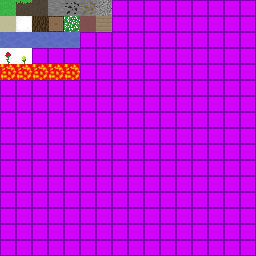
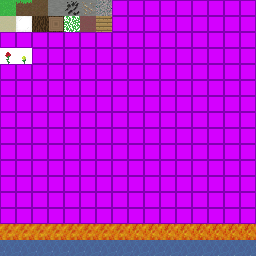
updated textures

diff --git a/src/block/lava.c b/src/block/lava.c
@@ -5,7 +5,7 @@ static bool is_transparent(struct World *world, ivec3s pos) {
 }
 
 static ivec2s get_texture_location(struct World *world, ivec3s pos, enum Direction d) {
-    return (ivec2s) {{ 0, 4 }};
+    return (ivec2s) {{ 0, 14 }};
 }
 
 static bool is_animated() {
@@ -17,11 +17,9 @@ static bool is_liquid() {
 }
 
 static void get_animation_frames(ivec2s out[BLOCK_ATLAS_FRAMES]) {
-    out[0] = (ivec2s) {{ 0, 4 }};
-    out[1] = (ivec2s) {{ 1, 4 }};
-    out[2] = (ivec2s) {{ 2, 4 }};
-    out[3] = (ivec2s) {{ 3, 4 }};
-    out[4] = (ivec2s) {{ 4, 4 }};
+    for (size_t i = 0; i < BLOCK_ATLAS_FRAMES; i++) {
+        out[i] = (ivec2s) {{ 14, i }};
+    }
 }
 
 void lava_init() {

diff --git a/src/block/water.c b/src/block/water.c
@@ -5,7 +5,7 @@ static bool is_transparent(struct World *world, ivec3s pos) {
 }
 
 static ivec2s get_texture_location(struct World *world, ivec3s pos, enum Direction d) {
-    return (ivec2s) {{ 0, 2 }};
+    return (ivec2s) {{ 0, 15 }};
 }
 
 static bool is_animated() {
@@ -17,11 +17,9 @@ static bool is_liquid() {
 }
 
 static void get_animation_frames(ivec2s out[BLOCK_ATLAS_FRAMES]) {
-    out[0] = (ivec2s) {{ 0, 2 }};
-    out[1] = (ivec2s) {{ 1, 2 }};
-    out[2] = (ivec2s) {{ 2, 2 }};
-    out[3] = (ivec2s) {{ 3, 2 }};
-    out[4] = (ivec2s) {{ 4, 2 }};
+    for (size_t i = 0; i < BLOCK_ATLAS_FRAMES; i++) {
+        out[i] = (ivec2s) {{ i, 15 }}; 
+    }
 }
 
 

diff --git a/src/main.c b/src/main.c
@@ -52,17 +52,6 @@ void tick() {
 
     // Load chunks around the current camera position
     world_set_center(&state.world, world_pos_to_block(state.world.player.camera.position));
-
-    if (state.window->keyboard.keys[GLFW_KEY_C].pressed_tick) {
-        for (int x = 0; x < 32; x++)
-            for (int y = 64; y < 80; y++) {
-                world_set_data(&state.world, (ivec3s) {{ x, y, 4}}, GLASS);
-                world_set_data(&state.world, (ivec3s) {{ x, y, 8}}, LAVA);
-            }
-
-        world_set_data(&state.world, (ivec3s) {{ 40, 80, 4}}, ROSE);
-    }
-
 }
 
 void update() {

diff --git a/src/chunk.c b/src/chunk.c
@@ -100,7 +100,7 @@ void mesh_depth_sort(struct Mesh *self, vec3s center) {
     }
 
     // sort faces
-    quicksort(
+    mergesort(
         self->faces.data, self->faces.count, sizeof(struct Face),
         (int (*)(const void*, const void*)) _depth_sort_cmp);
 

diff --git a/src/include/blockatlas.h b/src/include/blockatlas.h
@@ -5,8 +5,8 @@
 #include "gfx.h"
 #include "texture.h"
 
-#define BLOCK_ATLAS_FPS 5
-#define BLOCK_ATLAS_FRAMES 5
+#define BLOCK_ATLAS_FPS 6
+#define BLOCK_ATLAS_FRAMES 16
 
 struct BlockAtlas {
     struct Texture frames[BLOCK_ATLAS_FRAMES];
